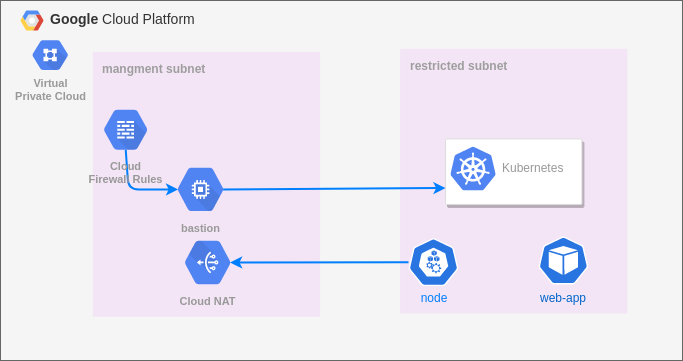
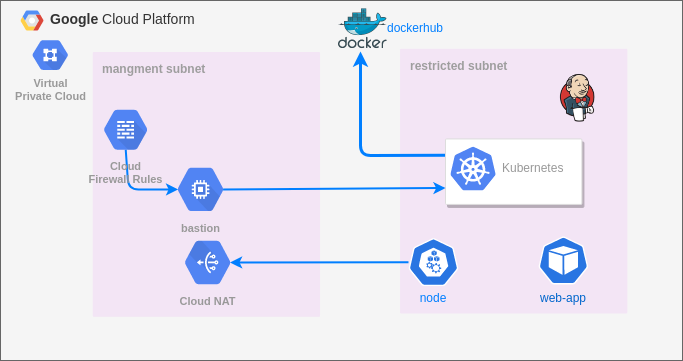
update README.md

Changed region(s): [[0.4919, 0.0305, 0.6457, 0.4571], [0.7994, 0.1828, 0.8917, 0.3352], [0.6149, 0.7922, 0.6457, 0.8532]]

diff --git a/README.md b/README.md
@@ -1,16 +1,21 @@
-# Provision GKE cluster on GCP 
+Provision GKE cluster on GCP 
+====
+
+
 - Deploy jenkins as pod on GKE cluster
+- Use pods as agents to build and deploy application
 - Create a jenkins ci/cd pipeline to deploy a nodejs app on GKE cluster
 
 ![infrastructure](./assets/images/draw.png)
 
-### Provision infrastructure on GCP 🚀
-1. Create a GCP project
-2. ToDo : Create GS bucket and enable versioning to store the terraform state file
-3. Clone repo 
-4. edit project_id in terraform.tfvars with your project id and edit provider configuration 
+Provision infrastructure on GCP 🚀
+----
+
+1. Clone repository 
+2. Edit project_id in terraform.tfvars with your project id and edit provider configuration 
 
 #### Finally  Run the following command to provision the infrastructure 🚀
+
 ```bash
 # initialize terraform
 terraform init
@@ -29,7 +34,7 @@ $ gcloud container clusters get-credentials gke-cluster --zone us-central1-a --p
 
 ### Deploy Jenkins using kubectl 🚀
 
-#### Commands 💻
+##### Commands 💻
 ```bash
 kubectl apply -f ./jenkins/namespace.yaml
 kubectl apply -Rf ./jenkins
@@ -38,7 +43,7 @@ kubectl apply -Rf ./jenkins
 ----
 ### configure jenkins to access the cluster 
 
-#### Copy kube config file to Jenkins pod
+##### Copy kube config file to Jenkins pod
 ```sh
 $ kubectl get po -n jenkins-ns 
 
@@ -57,7 +62,8 @@ DevOps:$  kubectl cp -n jenkins-ns  ~/.kube/config jenkins-server-65b987d59-gm9k
 ```
 
 
-### Open jenkins in browser
+#### Open jenkins in browser
+
 goto MangeJenkins => Manage nodes and cloud => configure clouds => kubernetes
 
 #### describe jnlp service to get the endpoint
@@ -74,11 +80,29 @@ Endpoints:         10.48.0.24:50000
 
 ### Create ci/cd pipeline on jenkins to deploy the application 🚀
 
-Use a declarative pipeline to deploy the application on GKE cluster
+Using a declarative pipeline to deploy the application on GKE cluster
 
 Link to [**pipeline script**](https://github.com/mohamedanwer006/simple-nodejs-app/blob/main/Jenkinsfile)
 
 -----
+
+
+
+### Deploy jenkins using ansible
+
+start by init  ansible galaxy
+
+#### Create role
+```bash
+ansible-galaxy init jenkins
+```
+
+##### Configure bastion with kubeconfig file and run ansible playbook
+
+
+![alt](./assets/images/ansible.png)
+
+
 
 ### Clean up 💣
 
@@ -86,13 +110,27 @@ Link to [**pipeline script**](https://github.com/mohamedanwer006/simple-nodejs-a
 terraform destroy --auto-approve
 ```
 ---
-### ToDo:
-- Deploy jenkins using ansible
-- limit access to service account
 
 
+
+### ToDo: for production
+
+- Integrate jenkins with github webhook for automatic ci/cd
+- Integrate with slack for notifications
+- Create infrastructure pipeline to provision the infrastructure on GCP (optional)
+- Use helm to deploy the application on GKE cluster (optional)
+- Create a dev and prod environment for the application and infrastructure 
+- Backup the jenkins_home directory to a bucket (optional)  
 
 ---
 This [**Article**](https://blog.thecloudside.com/docker-in-docker-with-jenkins-pod-on-kubernetes-f2b9877936f2) 
 and kubernetes plugins [**Documentation**](https://plugins.jenkins.io/kubernetes//)
 I used to configure Docker with jenkins and dynamic agent 
+
+
+----
+
+Application repository: 
+contain the application code and the pipeline script
+
+[**Application repository**](https://github.com/mohamedanwer006/simple-nodejs-app)
